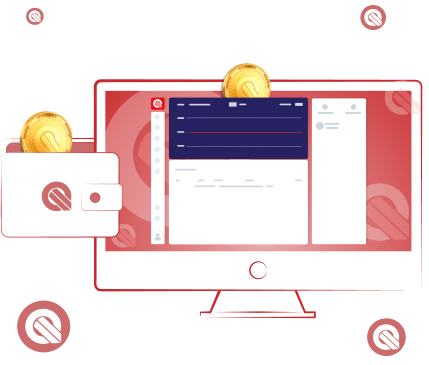
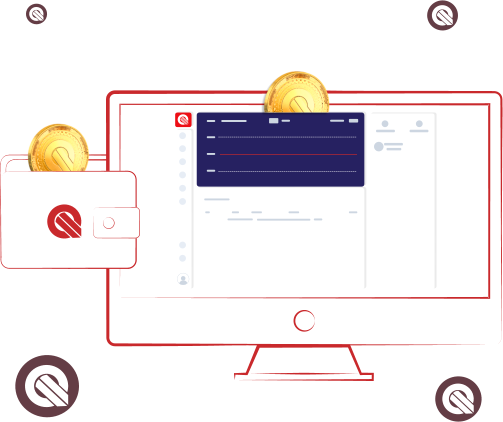
new images

diff --git a/src/renderer/components/App/AppIntro/AppIntro.vue b/src/renderer/components/App/AppIntro/AppIntro.vue
@@ -244,11 +244,11 @@ export default {
     language: I18N.defaultLocale,
     step: 0,
     stepImages: [
-      'pages/intro/welcome.svg',
-      'pages/intro/power.svg',
-      'pages/intro/duty.svg',
-      'pages/intro/responsibility.svg',
-      'pages/intro/turn.svg'
+      'pages/intro/welcome.png',
+      'pages/intro/power.png',
+      'pages/intro/duty.png',
+      'pages/intro/responsibility.png',
+      'pages/intro/turn.png'
     ]
   }),
 
@@ -288,7 +288,7 @@ export default {
 
 <style lang="postcss" scoped>
 .AppIntro__1 .AppIntroScreen__container__left {
-  background-color: #ff000573;
+  background-color: #6d0909ed;
 }
 .AppIntro__1__languages {
   @apply .border-2 .rounded

diff --git a/src/renderer/pages/Wallet/WalletNew.vue b/src/renderer/pages/Wallet/WalletNew.vue
@@ -312,8 +312,8 @@ export default {
     showEncryptLoader: false,
     backgroundImages: {
       1: 'pages/wallet-new/choose-wallet.png',
-      2: 'pages/wallet-new/backup-wallet.svg',
-      3: 'pages/wallet-new/verify-passphrase.svg',
+      2: 'pages/wallet-new/backup-wallet.png',
+      3: 'pages/wallet-new/verify-passphrase.png',
       4: 'pages/wallet-new/encrypt-wallet.png',
       5: 'pages/wallet-new/protect-wallet.png'
     }

diff --git a/src/renderer/pages/Wallet/WalletImport.vue b/src/renderer/pages/Wallet/WalletImport.vue
@@ -190,9 +190,9 @@ export default {
     walletConfirmPassword: null,
     showEncryptLoader: false,
     backgroundImages: {
-      1: 'pages/wallet-new/import-wallet.svg',
-      2: 'pages/wallet-new/encrypt-wallet.svg',
-      3: 'pages/wallet-new/protect-wallet.svg'
+      1: 'pages/wallet-new/import-wallet.png',
+      2: 'pages/wallet-new/encrypt-wallet.png',
+      3: 'pages/wallet-new/protect-wallet.png'
     }
   }),
 

diff --git a/src/renderer/pages/NetworkOverview.vue b/src/renderer/pages/NetworkOverview.vue
@@ -13,7 +13,7 @@
           </p>
 
           <img
-            :src="assets_loadImage('pages/network-selection/background.svg')"
+            :src="assets_loadImage('pages/network-selection/background.png')"
             :title="$t('PAGES.NETWORK_OVERVIEW.INSTRUCTIONS.HEADER')"
             class="w-full xl:w-4/5 mt-10"
           >

diff --git a/src/renderer/pages/Profile/ProfileNew.vue b/src/renderer/pages/Profile/ProfileNew.vue
@@ -13,7 +13,7 @@
           </p>
 
           <img
-            :src="assets_loadImage(`pages/profile-new/step-${step}.svg`)"
+            :src="assets_loadImage(`pages/profile-new/step-${step}.png`)"
             :title="$t(`PAGES.PROFILE_NEW.STEP${step}.INSTRUCTIONS.HEADER`)"
             class="w-full xl:w-4/5 mt-10"
           >

diff --git a/src/renderer/pages/Contact/ContactNew.vue b/src/renderer/pages/Contact/ContactNew.vue
@@ -82,7 +82,7 @@ export default {
 
   computed: {
     backgroundImage () {
-      return 'pages/contact-new/wallet.svg'
+      return 'pages/contact-new/wallet.png'
     },
     addressError () {
       if (this.$v.schema.address.$invalid) {

diff --git a/src/renderer/components/App/AppIntro/AppIntroScreen.vue b/src/renderer/components/App/AppIntro/AppIntroScreen.vue
@@ -153,7 +153,7 @@ export default {
 }
 
 .AppIntroScreen__container__left {
-  background-color: #ff000573;
+  background-color: #6d0909ed;
 }
 
 .AppIntroScreen__container__left__logo {
